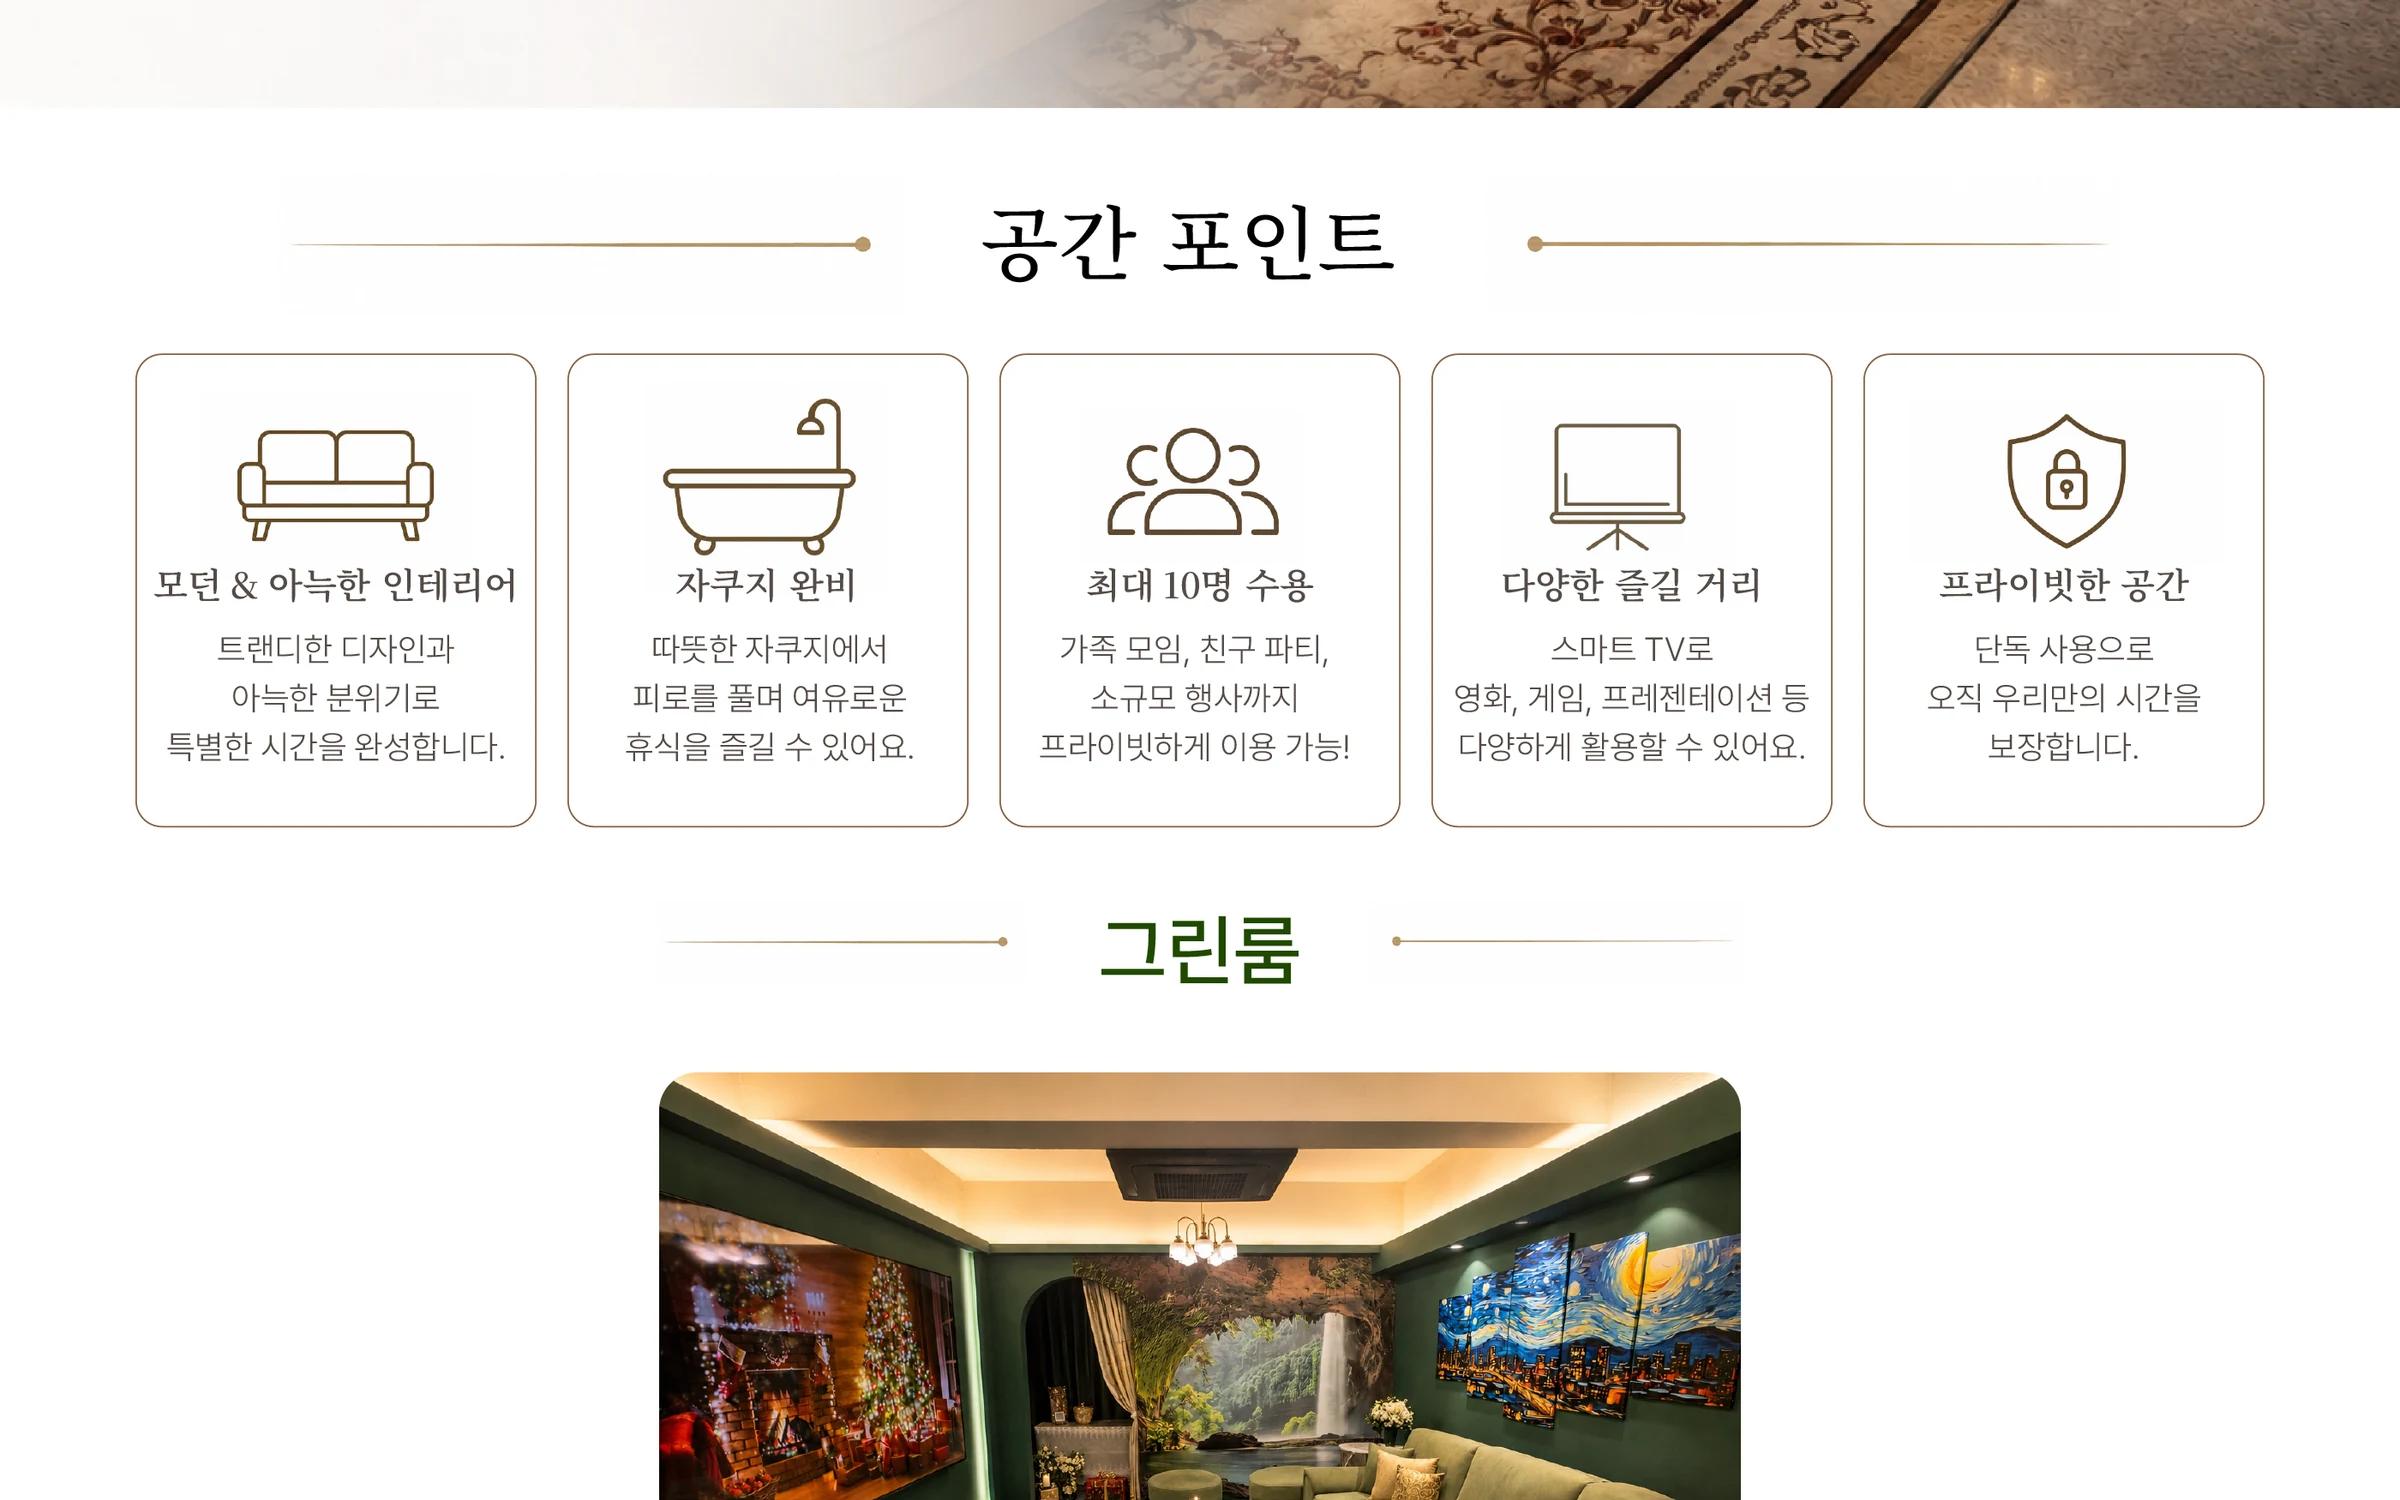
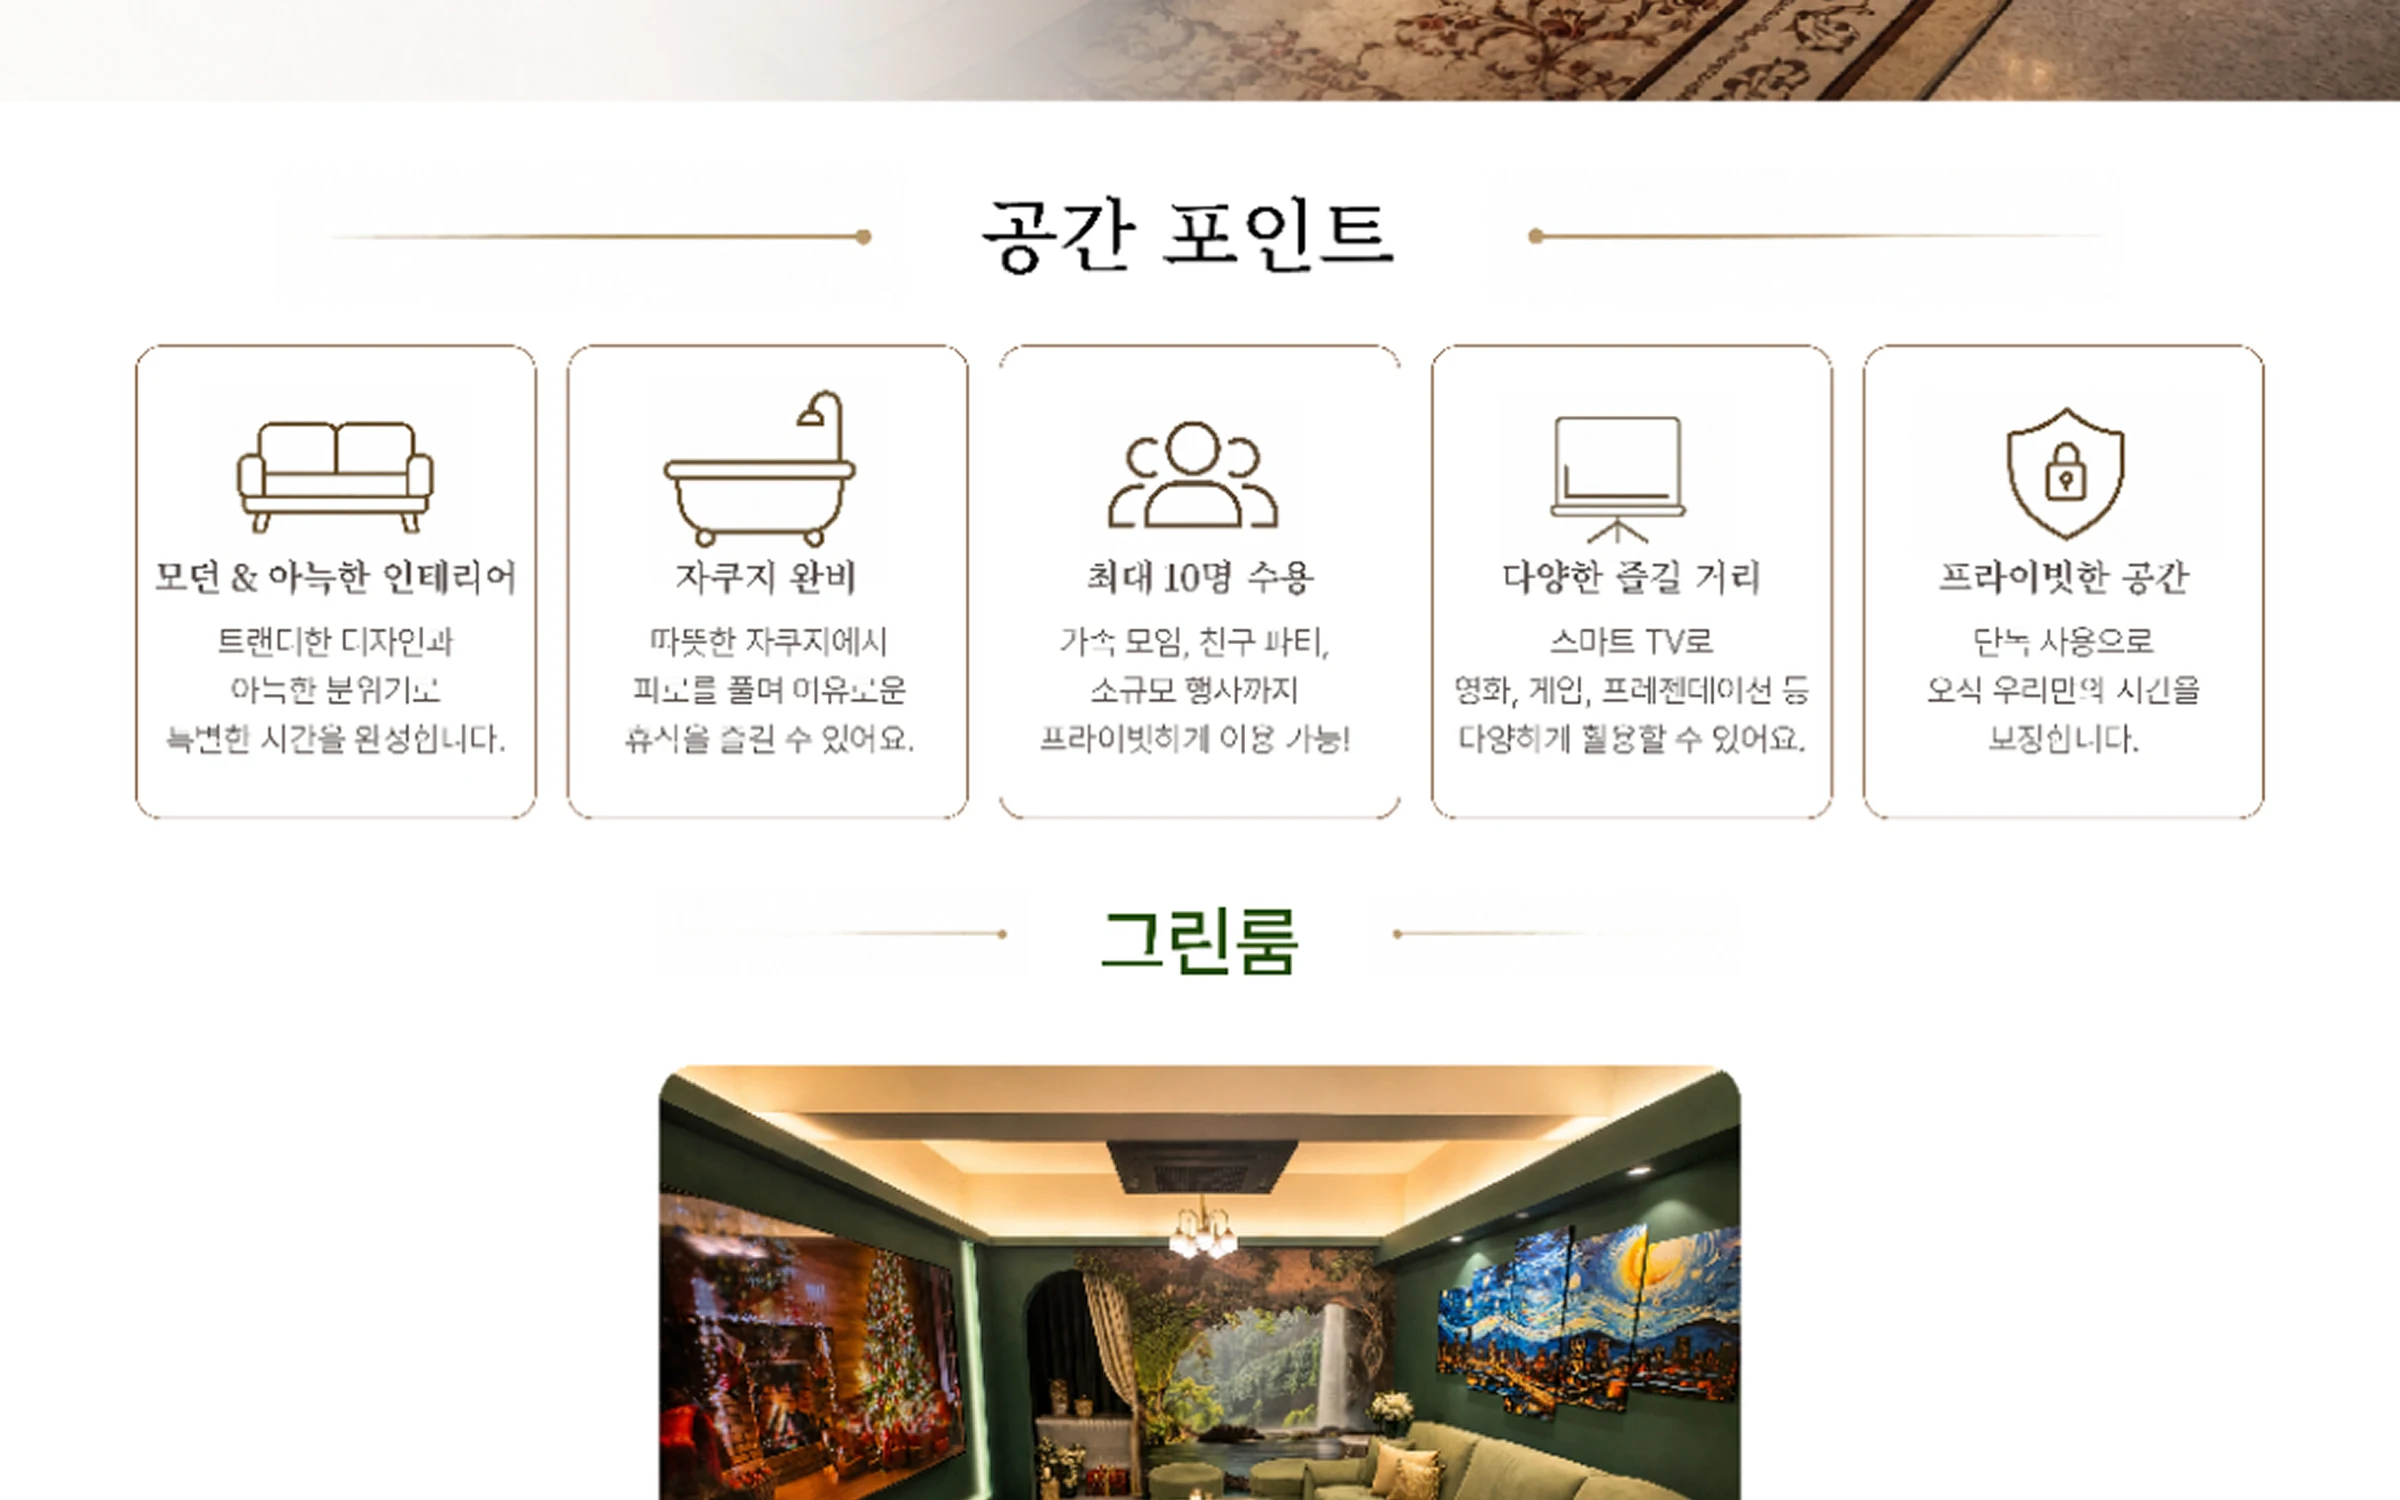
2F 상세 페이지 이미지 교체 (0629 버전)
- 다운로드 폴더 원본(2880px) 기준 2400px WebP 7조각 재생성
- slices 8 → 7 동기화

diff --git a/src/app/spaces/[floor]/page.tsx b/src/app/spaces/[floor]/page.tsx
@@ -6,7 +6,7 @@ import { SiteFooter } from "@/components/site-footer";
 // 상세 이미지는 Safari/iOS의 대형 이미지(>16.7MP) 강제 축소를 피하려고
 // 세로 1500px씩 잘라둔다 (public/images/floor-{key}-01.webp ~). 조각 수는 층마다 다름.
 const FLOORS = {
-  "2f": { floor: "2F", name: "시그니처 스위트", slices: 8 },
+  "2f": { floor: "2F", name: "시그니처 스위트", slices: 7 },
   "4f": { floor: "4F", name: "시그니처 컨벤션", slices: 8 },
   "6f": { floor: "6F", name: "시그니처 루프탑", slices: 7 },
 } as const;
